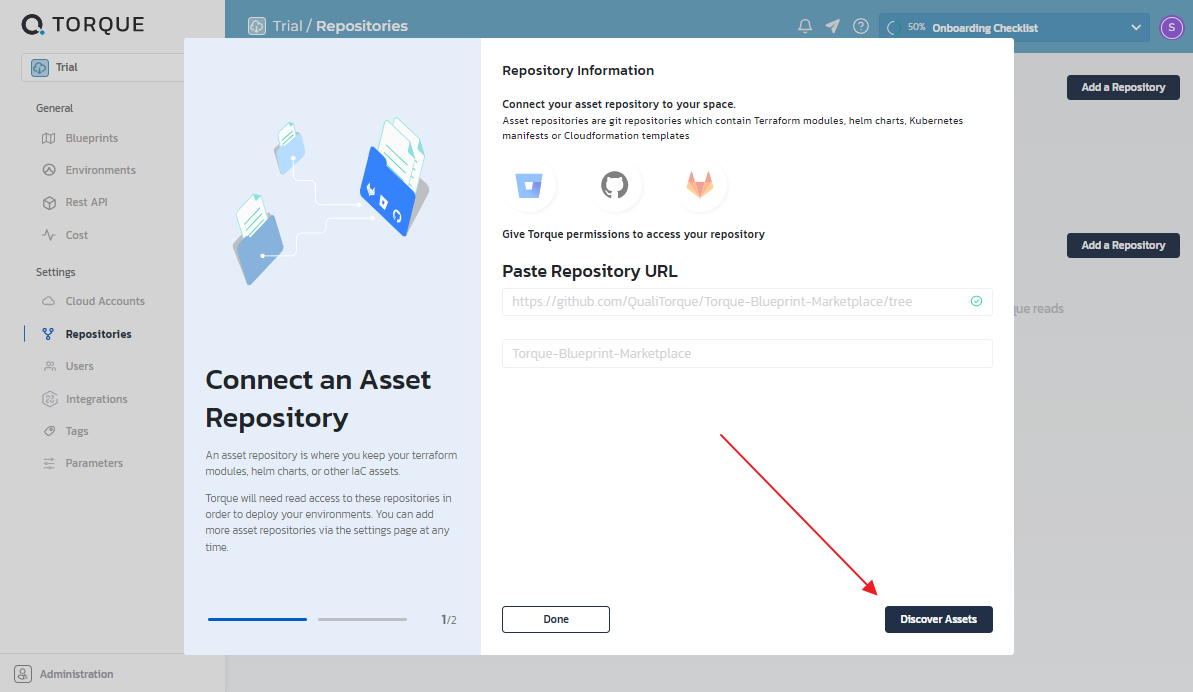
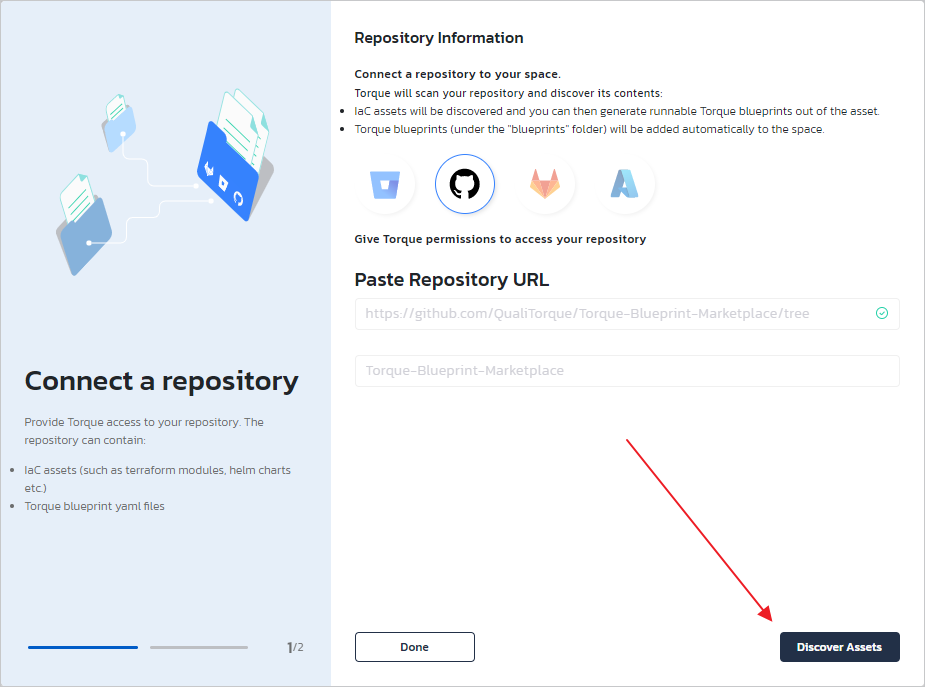
Azure DevOps repo

diff --git a/docs/getting-started/Discover Your Assets.md b/docs/getting-started/Discover Your Assets.md
@@ -4,19 +4,21 @@ title: Discover Your Assets
 ---
 
 Torque needs access to your relevant git repositories to read your Terraform modules or Helm charts.
-Torque supports 3 version control systems: GitHub, GitLab and BitBucket.
+Torque supports 3 version control systems: GitHub, GitLab, BitBucket, and Azure DevOps.
 
 Once a repository is connected, Torque will automatically discover the assets in it (Terraform modules, Helm charts, Kubernetes manifests, CloudFormation templates, and batch scripts). See the full list [here](/overview/supported-platforms.md) and will ask you to select the assets to be used for the blueprints. After you select the relevant assets, Torque will automatically generate initial blueprints from your assets.
 
 :::tip __Note__:
 
-Click on an autogenerated blueprint to view the resulting yaml file. You can customize it and edit it if needed. See [Auto-Generated bluperints](/blueprint-designer-guide/Autogenerated%20Blueprints.md) for more details.
+Click an autogenerated blueprint to view the resulting yaml file. You can customize it and edit it if needed. See [Auto-Generated bluperints](/blueprint-designer-guide/Autogenerated%20Blueprints.md) for more details.
 
 :::
 
 **To connect your repository:**
 1. Go to your space, and select __Repositories__ from the left pane. 
 2. Click **Add a Repository** and follow the instructions.
+
+  To connect an Azure DevOps repo, use this format: "https://dev.azure.com/{organization}/{project}/_git/{repositoryName}".
 3. Now that your repository is connected, click __Discover Assets__ to have Torque auto-generate blueprints out of the suitable assets.
   > ![Locale Dropdown](/img/discover-assets-2.png)
 4. Next, go to the __Blueprints__ page and publish the new blueprints.

diff --git a/docs/overview/features.md b/docs/overview/features.md
@@ -14,7 +14,7 @@ title: Torque Features
 
 
 ## GitOps
-* __Update assets on push/merge__: Torque supports the use of git repositories on GitHub, GitLab and BitBucket. When changes are merged into the space's repository, the appropriate blueprints are immediately updated with the changes.
+* __Update assets on push/merge__: Torque supports the use of git repositories on GitHub, GitLab, BitBucket and Azure DevOps. When changes are merged into the space's repository, the appropriate blueprints are immediately updated with the changes.
 * __[Automatic drift detection](/getting-started/Launch-environment#drift)__: See what external changes have occurred to your environment and its resources, revert the changes to bring your environment back to its initial state.
 
 ## Governance and workflows
